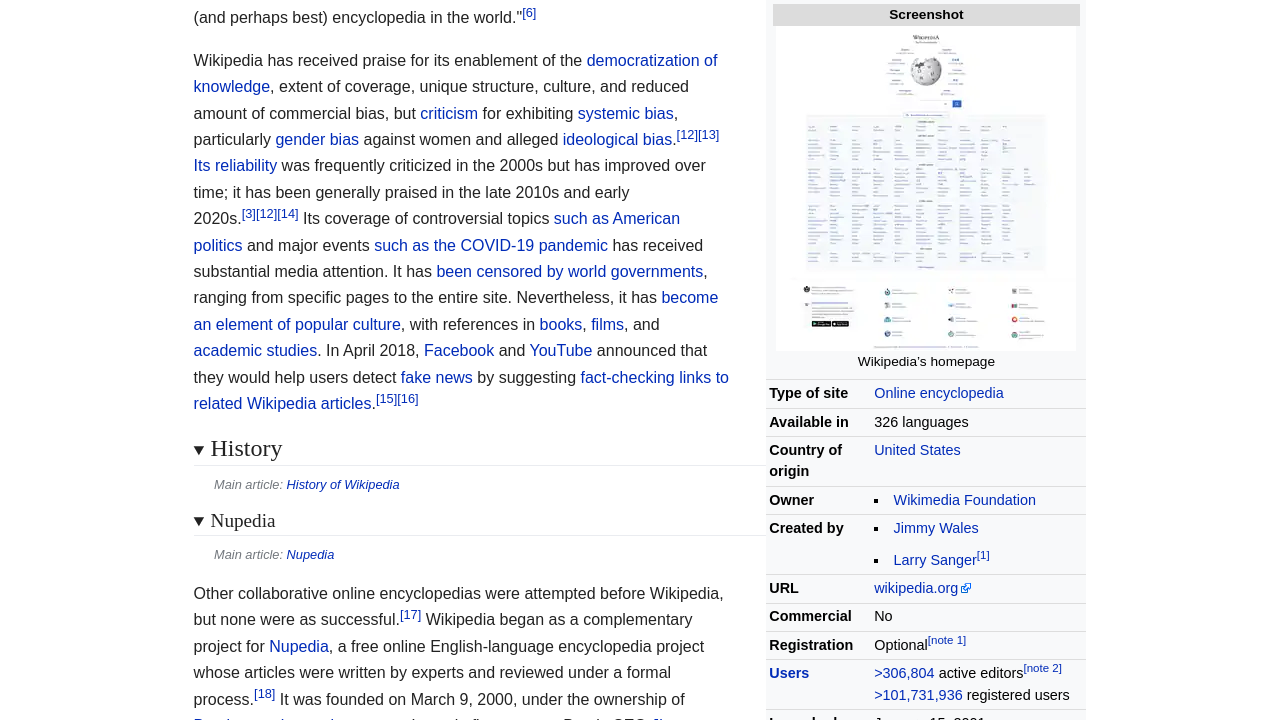
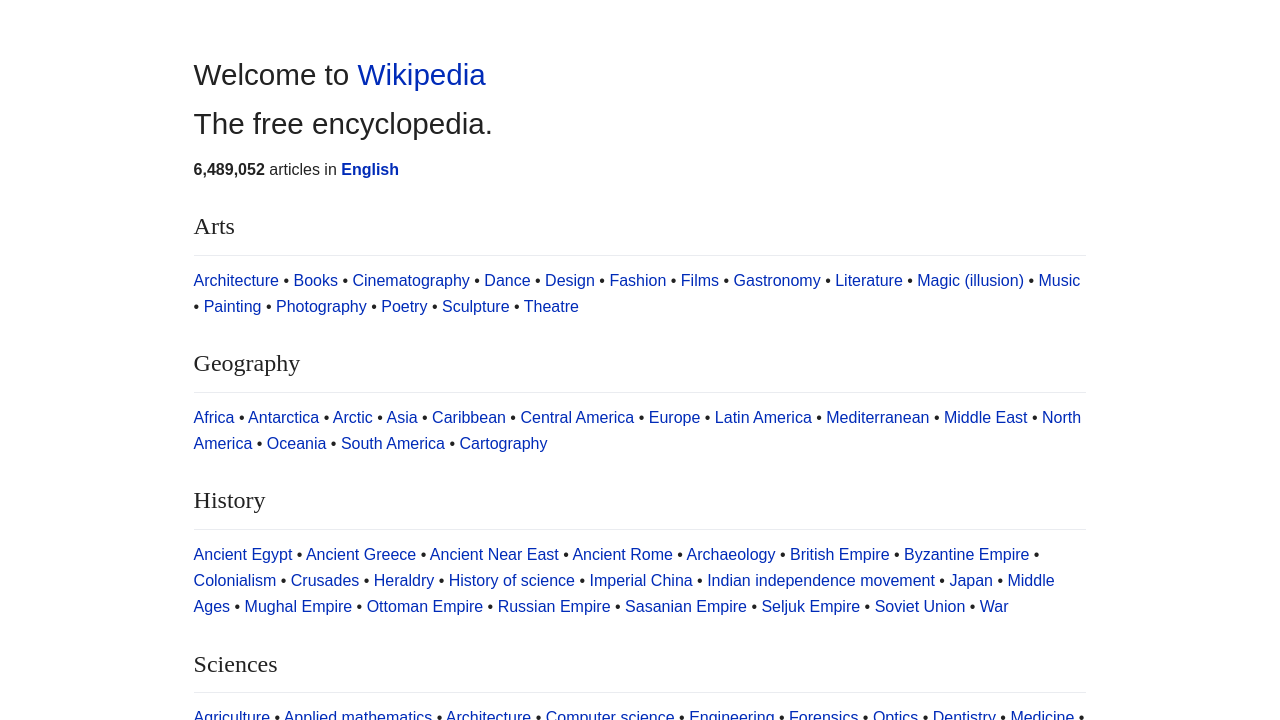
add metric log

diff --git a/analyze_metrics.py b/analyze_metrics.py
@@ -1,0 +1,66 @@
+import json
+import glob
+import pandas as pd
+
+def analyze_rag_metrics(rag_file="rag_metrics.jsonl"):
+    print("="*50)
+    print("1. CONTEXT EFFICIENCY & RAG OVERHEAD METRICS")
+    print("="*50)
+    
+    try:
+        data = []
+        with open(rag_file, "r") as f:
+            for line in f:
+                if line.strip():
+                    data.append(json.loads(line))
+        
+        if not data:
+            print("rag_metrics.jsonl is empty.")
+        else:
+            df = pd.DataFrame(data)
+            print(f"Total Steps Analyzed: {len(df)}")
+            print(f"Average Pre-Filter Size:  {df['pre_filter_chars'].mean():.2f} characters")
+            print(f"Average Post-Filter Size: {df['post_filter_chars'].mean():.2f} characters")
+            print(f"Average Compression Ratio: {df['compression_ratio'].mean() * 100:.2f}% reduction")
+            print(f"Average RAG Overhead Time: {df['rag_overhead_ms'].mean():.2f} ms per step")
+            print(f"Average Functional Nodes Kept: {df['functional_nodes'].mean():.1f} per step")
+            print(f"Average Semantic Nodes Kept:   {df['semantic_nodes'].mean():.1f} per step")
+    except FileNotFoundError:
+        print(f"'{rag_file}' not found.")
+    except Exception as e:
+        print(f"Error reading {rag_file}: {e}")
+
+def analyze_llm_metrics():
+    print("\n" + "="*50)
+    print("2. LATENCY & AGENT BEHAVIOR METRICS")
+    print("="*50)
+    
+    result_files = glob.glob("*webarena_results.jsonl")
+    metrics_list = []
+    
+    for file in result_files:
+        try:
+            with open(file, "r") as f:
+                for line in f:
+                    if not line.strip(): continue
+                    traj_data = json.loads(line)
+                    trajectory = traj_data.get("trajectory", [])
+                    if trajectory and "metrics" in trajectory[-1]:
+                        metrics_list.append(trajectory[-1]["metrics"])
+        except Exception:
+            pass
+            
+    if not metrics_list:
+        print("No LLM metrics found in your *webarena_results.jsonl files.")
+        print("Make sure an episode has fully completed to log the final metrics.")
+    else:
+        df = pd.DataFrame(metrics_list)
+        print(f"Total Episodes Analyzed: {len(df)}")
+        print(f"Average Episode Duration: {df['total_episode_duration'].mean():.2f} seconds")
+        print(f"Average Inference Latency: {df['avg_infer_latency'].mean():.2f} seconds per step")
+        print(f"Average Steps to Completion: {df['steps_to_completion'].mean():.2f} steps")
+        print(f"Average Invalid Actions: {df['invalid_action_count'].mean():.2f} per episode")
+
+if __name__ == "__main__":
+    analyze_rag_metrics()
+    analyze_llm_metrics()

diff --git a/run_model.py b/run_model.py
@@ -112,6 +112,11 @@ def write_a_data(action_list, filename=None):
 import uuid
 
 def Get_multi_turn_response(question, answer):
+    import time
+    start_episode_time = time.time()
+    total_inference_time = 0.0
+    invalid_action_count = 0
+    
     tar_id = str(uuid.uuid4())
     history = "\n"
     obj = question
@@ -137,7 +142,11 @@ def Get_multi_turn_response(question, answer):
             prompt = system_prompt + "\n\n" + real_prompt
             
             try:
+                start_infer = time.time()
                 response = get_response(prompt, temperature=0)
+                infer_time = time.time() - start_infer
+                total_inference_time += infer_time
+                
                 last_command = extract_command(response)
                 last_info = extract_conclusion(response)
                 
@@ -150,6 +159,9 @@ def Get_multi_turn_response(question, answer):
                 if 'error' in jsoned_data:
                     raise Exception(f"Server Error: {jsoned_data['error']} (Response: {jsoned_data.get('content', '')})")
                 obs = jsoned_data['observations'][0]
+                
+                if "The action is invalid" in obs:
+                    invalid_action_count += 1
                 
                 if "stop" in last_command:
                     call_tool_server([tar_id], [response], [True])
@@ -167,16 +179,31 @@ def Get_multi_turn_response(question, answer):
         error_msg = str(e)
         print(f"{e}")
 
+    episode_duration = time.time() - start_episode_time
+    avg_infer_latency = total_inference_time / max(len(action_list), 1)
+
     if action_list:
         action_list[-1]["is_error"] = is_error
         action_list[-1]["error_msg"] = error_msg
+        action_list[-1]["metrics"] = {
+            "total_episode_duration": episode_duration,
+            "avg_infer_latency": avg_infer_latency,
+            "steps_to_completion": len(action_list),
+            "invalid_action_count": invalid_action_count
+        }
     else:
 
         action_list.append({
             "input_seq": f"question: {question}",
             "output_seq": "error",
             "is_error": is_error,
-            "error_msg": error_msg
+            "error_msg": error_msg,
+            "metrics": {
+                "total_episode_duration": episode_duration,
+                "avg_infer_latency": avg_infer_latency,
+                "steps_to_completion": 0,
+                "invalid_action_count": invalid_action_count
+            }
         })
 
     write_a_data(action_list)

diff --git a/mini_webarena/browser_processors.py b/mini_webarena/browser_processors.py
@@ -848,6 +848,10 @@ class TextObervationProcessor(ObservationProcessor):
             content = self.clean_accesibility_tree(content)
 
             # --- ACTION-PRESERVING SEMANTIC PRUNING ---
+            import time
+            start_rag_time = time.time()
+            pre_filter_len = len(content)
+            
             lines = content.split('\n')
             functional_nodes = []
             semantic_nodes = []
@@ -892,6 +896,22 @@ class TextObervationProcessor(ObservationProcessor):
             combined_nodes.sort(key=lambda x: x[0])
             
             content = "\n".join([node[1] for node in combined_nodes])
+            post_filter_len = len(content)
+            rag_time = time.time() - start_rag_time
+            
+            try:
+                import json
+                with open("rag_metrics.jsonl", "a") as f:
+                    f.write(json.dumps({
+                        "rag_overhead_ms": rag_time * 1000,
+                        "pre_filter_chars": pre_filter_len,
+                        "post_filter_chars": post_filter_len,
+                        "compression_ratio": 1 - (post_filter_len / max(pre_filter_len, 1)),
+                        "semantic_nodes": len(semantic_nodes),
+                        "functional_nodes": len(functional_nodes)
+                    }) + "\n")
+            except Exception:
+                pass
             # ----------------------------------------
 
             self.obs_nodes_info = obs_nodes_info
